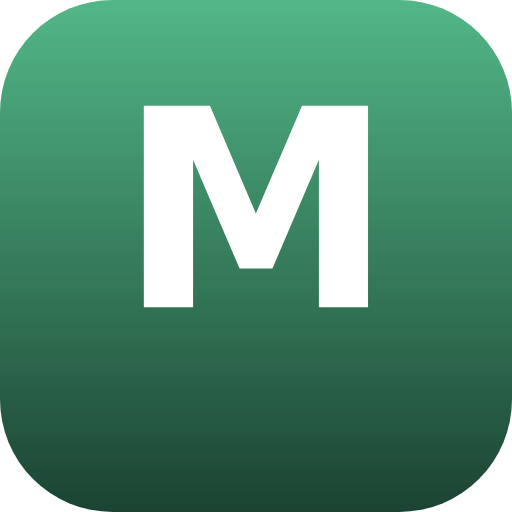
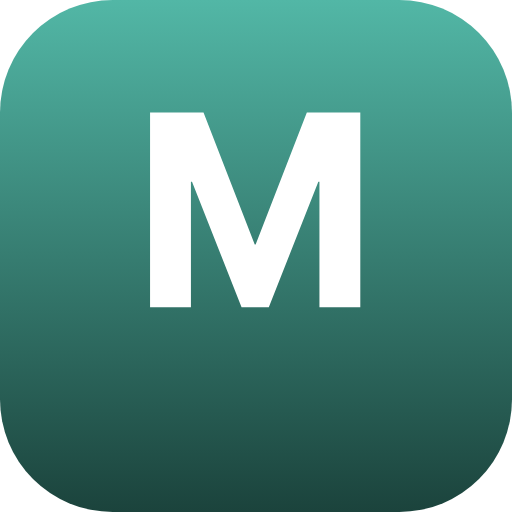
Tint the palette teal-green, fix contrast and refresh brand assets

Changed region(s): [[0.0, 0.0, 1.0, 0.625]]

diff --git a/src/styles/theme.css b/src/styles/theme.css
@@ -22,11 +22,15 @@
   --ease:        cubic-bezier(0.16, 1, 0.3, 1);
 
   /* Brand */
-  --brand:          #1A7A4A;
-  --brand-hover:    #1A7A4A; /* no kit buttons in use; kept equal to --brand */
+  --brand:          #187263;
+  --brand-hover:    #187263; /* no kit buttons in use; kept equal to --brand */
   --brand-contrast: #FFFFFF;
-  --brand-on-dark:  #52B788;
-  --brand-on-light: #1A7A4A;
+  --brand-on-dark:  #52B7A6;
+  --brand-on-light: #187263;
+
+  /* Brand gradient (avatar fallback, site mark, favicon); theme-independent */
+  --brand-grad-start: #52B7A6;
+  --brand-grad-end:   #1B433C;
 
   /* Neutral palettes */
   --dark-bg:      #000000;
@@ -49,16 +53,16 @@
   --bg-section:    var(--surface-2);
   --bg-raised:     var(--surface);
   --text:          var(--light-text);
-  --text-2:        #6B6862;
-  --text-3:        #ABA79C;
-  --border:        rgba(26, 58, 41, 0.10);
-  --accent:        #1A7A4A;
-  --accent-text:   #1A7A4A;
+  --text-2:        #5E5B55;
+  --text-3:        #6B6862;
+  --border:        rgba(26, 58, 54, 0.10);
+  --accent:        #187263;
+  --accent-text:   #187263;
   --surface:       var(--light-raised);
   --surface-2:     var(--light-section);
-  --glow:          #52B788;
+  --glow:          #52B7A6;
   --ambient:       transparent;
-  --shadow-hover:  0 10px 30px rgba(26, 122, 74, 0.14);
+  --shadow-hover:  0 10px 30px rgba(24, 114, 99, 0.14);
 }
 
 /* Dark: explicit toggle, or OS preference with no explicit choice. */
@@ -68,15 +72,15 @@
   --bg-section:    var(--surface-2);
   --bg-raised:     var(--surface);
   --text:          var(--dark-text);
-  --text-2:        #8C887E;
-  --text-3:        #4A4740;
-  --border:        rgba(160, 220, 190, 0.12);
-  --accent:        #52B788;
-  --accent-text:   #52B788;
+  --text-2:        #A8A499;
+  --text-3:        #938F85;
+  --border:        rgba(160, 220, 208, 0.12);
+  --accent:        #52B7A6;
+  --accent-text:   #52B7A6;
   --surface:       var(--dark-raised);
   --surface-2:     var(--dark-section);
-  --glow:          #52B788;
-  --ambient:       rgba(82, 183, 136, 0.16);
+  --glow:          #52B7A6;
+  --ambient:       rgba(82, 183, 166, 0.16);
   --shadow-hover:  0 10px 30px rgba(0, 0, 0, 0.45);
 }
 @media (prefers-color-scheme: dark) {
@@ -86,15 +90,15 @@
     --bg-section:    var(--surface-2);
     --bg-raised:     var(--surface);
     --text:          var(--dark-text);
-    --text-2:        #8C887E;
-    --text-3:        #4A4740;
-    --border:        rgba(160, 220, 190, 0.12);
-    --accent:        #52B788;
-    --accent-text:   #52B788;
+    --text-2:        #A8A499;
+    --text-3:        #938F85;
+    --border:        rgba(160, 220, 208, 0.12);
+    --accent:        #52B7A6;
+    --accent-text:   #52B7A6;
     --surface:       var(--dark-raised);
     --surface-2:     var(--dark-section);
-    --glow:          #52B788;
-    --ambient:       rgba(82, 183, 136, 0.16);
+    --glow:          #52B7A6;
+    --ambient:       rgba(82, 183, 166, 0.16);
     --shadow-hover:  0 10px 30px rgba(0, 0, 0, 0.45);
   }
 }

diff --git a/src/styles/site.css b/src/styles/site.css
@@ -66,23 +66,6 @@ body::before {
   padding: 0 24px;
 }
 
-/* ── Theme toggle ───────────────────────────────────────────────
-   Base styles come from design-template-kit (src/theme-toggle.css). The site
-   pins it to the top-right corner and keeps its own size, radius and surface. */
-.theme-toggle {
-  position: fixed;
-  top: 20px;
-  right: 20px;
-  background: var(--surface);
-  border-radius: 10px;
-  width: 36px;
-  height: 36px;
-  transition: color 0.15s, background 0.2s;
-  z-index: 10;
-}
-.theme-toggle svg { transition: transform 0.3s var(--ease); }
-.theme-toggle:hover svg { transform: rotate(15deg) scale(1.08); }
-
 /* ── Site mark (blog pages) ─────────────────────────────────── */
 .site-mark {
   position: fixed;
@@ -91,7 +74,7 @@ body::before {
   width: 36px;
   height: 36px;
   border-radius: 10px;
-  background: linear-gradient(180deg, #52B788 0%, #1B4332 100%);
+  background: linear-gradient(180deg, var(--brand-grad-start) 0%, var(--brand-grad-end) 100%);
   color: #fff;
   display: flex;
   align-items: center;

diff --git a/src/styles/home.css b/src/styles/home.css
@@ -10,7 +10,7 @@
   position: absolute;
   inset: 0;
   border-radius: 50%;
-  background: linear-gradient(180deg, #52B788 0%, #1B4332 100%);
+  background: linear-gradient(180deg, var(--brand-grad-start) 0%, var(--brand-grad-end) 100%);
   color: #fff;
   display: flex;
   align-items: center;
